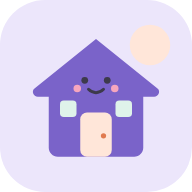
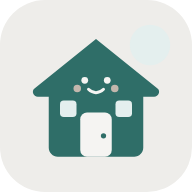
Ganti palet warna ke Monokrom Hangat
- theme.css ditulis ulang: abu-abu hangat netral + satu aksen teal;
  warna status (positif, negatif, peringatan, bahaya) tetap dibedakan
- Semua warna yang sebelumnya ditulis langsung di CSS kini lewat
  variabel tema (tombol, chip, badge, toast, kartu saldo, bar target,
  scanner, sync pill, dll)
- Petak/kartu seragam abu-abu; teal muda hanya untuk elemen aktif
  (tab, segmented, ikon terpilih, fokus input, tombol soft)
- Ikon aplikasi, theme-color, manifest, dan emoji ungu disesuaikan
- Versi v1.9

Claude-Session: https://claude.ai/code/session_016k4QMM5LHWqMStu4b4uAXy

Changed region(s): [[0.1562, 0.1875, 0.8438, 0.8438], [0.6562, 0.125, 0.9062, 0.3438]]

diff --git a/style/components.css b/style/components.css
@@ -64,13 +64,13 @@
 .btn--block { width: 100%; }
 .btn--sm { min-height: 34px; padding: 0 12px; font-size: 13px; border-radius: 11px; }
 .btn--icon { padding: 0; width: 46px; flex: none; font-size: 18px; }
-.btn--primary { background: var(--lavender); color: #fff; box-shadow: 0 6px 16px rgba(122, 99, 201, 0.3); }
-.btn--peach { background: var(--peach); color: #fff; box-shadow: 0 6px 16px rgba(224, 122, 79, 0.3); }
-.btn--sky { background: var(--sky); color: #fff; box-shadow: 0 6px 16px rgba(58, 134, 194, 0.3); }
-.btn--soft { background: var(--lavender-bg); color: var(--lavender); }
+.btn--primary { background: var(--accent); color: #fff; box-shadow: 0 6px 16px var(--accent-shadow); }
+.btn--peach { background: var(--accent); color: #fff; box-shadow: 0 6px 16px var(--accent-shadow); }
+.btn--sky { background: var(--accent); color: #fff; box-shadow: 0 6px 16px var(--accent-shadow); }
+.btn--soft { background: var(--accent-soft); color: var(--accent); }
 .btn--ghost { background: var(--bg); color: var(--ink); }
 .btn--danger { background: var(--danger); color: #fff; }
-.btn--danger-soft { background: #fdeceb; color: var(--danger); }
+.btn--danger-soft { background: var(--danger-soft); color: var(--danger); }
 
 /* ---------- Kartu ---------- */
 .card {
@@ -116,7 +116,7 @@
   padding: 10px 14px;
   border: 2px solid var(--line);
   border-radius: 14px;
-  background: #fffdfb;
+  background: var(--surface-soft);
   font-size: 15px;
   transition: border-color 0.2s, box-shadow 0.2s;
   appearance: none;
@@ -132,7 +132,7 @@ select.input {
   background-repeat: no-repeat;
   padding-right: 34px;
 }
-.input:focus { outline: none; border-color: var(--lavender); box-shadow: 0 0 0 4px var(--lavender-bg); }
+.input:focus { outline: none; border-color: var(--lavender); box-shadow: 0 0 0 4px var(--accent-soft); }
 .input.center { text-align: center; }
 
 .money {
@@ -179,7 +179,7 @@ select.input {
   color: var(--muted);
   transition: all 0.15s;
 }
-.chip--on { background: var(--lavender); border-color: var(--lavender); color: #fff; }
+.chip--on { background: var(--accent); border-color: var(--accent); color: #fff; }
 
 .custom-range { display: flex; align-items: center; gap: 8px; margin-top: 8px; }
 .custom-range .input { min-height: 40px; padding: 6px 10px; font-size: 13.5px; }
@@ -194,7 +194,7 @@ select.input {
   box-shadow: var(--shadow);
 }
 .segmented button { padding: 10px; border-radius: 12px; font-weight: 800; font-size: 14px; color: var(--muted); }
-.segmented button.on { background: var(--lavender-bg); color: var(--lavender); }
+.segmented button.on { background: var(--accent-soft); color: var(--accent); }
 
 /* ---------- Badge ---------- */
 .badge {
@@ -207,16 +207,16 @@ select.input {
   font-weight: 800;
   white-space: nowrap;
 }
-.badge--ok { background: var(--mint-bg); color: var(--mint); }
-.badge--warn { background: var(--butter-bg); color: #a26a00; }
-.badge--danger { background: #fde2e1; color: var(--danger); }
-.badge--info { background: var(--sky-bg); color: var(--sky); }
+.badge--ok { background: var(--ok-soft); color: var(--ok); }
+.badge--warn { background: var(--warn-soft); color: var(--warn-ink); }
+.badge--danger { background: var(--danger-soft); color: var(--danger); }
+.badge--info { background: var(--tile); color: var(--accent-ink); }
 
 /* ---------- Progress bar ---------- */
 .bar { height: 10px; border-radius: 99px; background: var(--bg); overflow: hidden; }
 .bar span { display: block; height: 100%; border-radius: inherit; background: var(--t-ink, var(--lavender)); transition: width 0.5s ease; }
 .bar--light { background: rgba(255, 255, 255, 0.6); }
-.bar--ok span { background: var(--mint); }
+.bar--ok span { background: var(--ok); }
 .bar--warn span { background: var(--warn); }
 .bar--danger span { background: var(--danger); }
 
@@ -416,11 +416,11 @@ select.input {
 }
 .toast--show { opacity: 1; transform: translate(-50%, 0); }
 .toast[data-type='error'] { background: var(--danger); }
-.toast[data-type='warn'] { background: #c27d10; }
+.toast[data-type='warn'] { background: var(--warn); }
 
 /* ---------- Bottom sheet ---------- */
 .sheet { position: fixed; inset: 0; z-index: 50; }
-.sheet__backdrop { position: absolute; inset: 0; background: rgba(61, 58, 75, 0.4); opacity: 0; transition: opacity 0.25s; }
+.sheet__backdrop { position: absolute; inset: 0; background: var(--overlay); opacity: 0; transition: opacity 0.25s; }
 .sheet__panel {
   position: absolute;
   left: 50%;
@@ -449,7 +449,7 @@ select.input {
   aspect-ratio: 4 / 3;
   border-radius: 20px;
   overflow: hidden;
-  background: #2b2838;
+  background: var(--dark-1);
   display: grid;
   place-items: center;
 }
@@ -459,7 +459,7 @@ select.input {
   inset: 28% 10%; /* harus sama dengan FRAME_CROP di barcode.service.js */
   border: 3px solid rgba(255, 255, 255, 0.9);
   border-radius: 16px;
-  box-shadow: 0 0 0 999px rgba(43, 40, 56, 0.35);
+  box-shadow: 0 0 0 999px rgba(47, 58, 58, 0.35);
   pointer-events: none;
   z-index: 2;
 }
@@ -492,7 +492,7 @@ select.input {
   background: rgba(255, 255, 255, 0.85);
   font-size: 20px;
 }
-.scanner__torch.on { background: var(--butter); }
+.scanner__torch.on { background: var(--warn-soft); }
 .scanner__engine { margin: -4px 0 0; text-align: center; font-size: 11px; color: var(--muted); }
 
 /* ---------- Perayaan ---------- */

diff --git a/style/pages.css b/style/pages.css
@@ -82,12 +82,12 @@
 .balance-card {
   padding: 20px;
   border-radius: var(--radius-lg);
-  background: linear-gradient(135deg, #8b74d6 0%, #b49be8 60%, #f2b8c6 120%);
+  background: linear-gradient(135deg, var(--dark-1) 0%, var(--dark-2) 100%);
   color: #fff;
   display: flex;
   flex-direction: column;
   gap: 4px;
-  box-shadow: 0 12px 28px rgba(122, 99, 201, 0.3);
+  box-shadow: 0 12px 28px rgba(43, 43, 43, 0.18);
   position: relative;
   overflow: hidden;
 }
@@ -283,7 +283,7 @@ body.auth-page .app { padding-bottom: 32px; }
 .login h1 { font-size: 28px; font-weight: 900; }
 .login > p { margin-bottom: 10px; }
 .login .card { width: 100%; text-align: left; }
-.login__error { background: #fdeceb; color: var(--danger); padding: 10px 12px; border-radius: 12px; font-weight: 700; font-size: 13.5px; }
+.login__error { background: var(--danger-soft); color: var(--danger); padding: 10px 12px; border-radius: 12px; font-weight: 700; font-size: 13.5px; }
 .btn:disabled { opacity: 0.6; pointer-events: none; }
 
 .sync-pill {
@@ -297,8 +297,8 @@ body.auth-page .app { padding-bottom: 32px; }
   color: var(--mint);
 }
 .sync-pill--syncing, .sync-pill--idle { background: var(--sky-bg); color: var(--sky); }
-.sync-pill--offline { background: var(--butter-bg); color: #a26a00; }
-.sync-pill--error { background: #fde2e1; color: var(--danger); }
+.sync-pill--offline { background: var(--warn-soft); color: var(--warn-ink); }
+.sync-pill--error { background: var(--danger-soft); color: var(--danger); }
 
 .kv { display: flex; justify-content: space-between; gap: 12px; font-size: 14px; }
 .kv span { color: var(--muted); }
@@ -330,7 +330,7 @@ code { background: var(--bg); padding: 1px 6px; border-radius: 6px; font-size: 1
   background: var(--bg);
   border: 2px solid transparent;
 }
-.icon-pick__item.on { background: var(--lavender-bg); border-color: var(--lavender); }
+.icon-pick__item.on { background: var(--accent-soft); border-color: var(--accent); }
 a.setting-row { color: inherit; }
 
 /* ---------- Transfer ---------- */
@@ -347,7 +347,7 @@ a.setting-row { color: inherit; }
   color: #fff;
   font-size: 20px;
   font-weight: 900;
-  box-shadow: 0 4px 12px rgba(58, 134, 194, 0.35);
+  box-shadow: 0 4px 12px var(--accent-shadow);
   transition: transform 0.25s;
 }
 .tf-swap:active { transform: rotate(180deg); }
@@ -379,20 +379,20 @@ a.setting-row { color: inherit; }
 }
 .goal__pct { font-size: 22px; font-weight: 900; }
 .goal__pct--goal { color: var(--rose); }
-.goal__pct--ok { color: var(--mint); }
+.goal__pct--ok { color: var(--ok); }
 .goal__pct--warn { color: var(--warn); }
 .goal-bar { position: relative; height: 14px; border-radius: 99px; background: var(--rose-bg); overflow: hidden; }
-.goal-bar span { display: block; height: 100%; border-radius: inherit; background: linear-gradient(90deg, #f29bb6, var(--rose)); transition: width 0.6s ease; }
+.goal-bar span { display: block; height: 100%; border-radius: inherit; background: var(--accent); transition: width 0.6s ease; }
 .goal-bar i { position: absolute; top: 3px; bottom: 3px; width: 2px; background: rgba(255, 255, 255, 0.8); }
-.goal-bar--ok { background: var(--mint-bg); }
-.goal-bar--ok span { background: linear-gradient(90deg, #8fd6b8, var(--mint)); }
-.goal-bar--warn span { background: linear-gradient(90deg, #f3c26b, var(--warn)); }
+.goal-bar--ok { background: var(--ok-soft); }
+.goal-bar--ok span { background: var(--ok); }
+.goal-bar--warn span { background: var(--warn); }
 .goal-bar--thin { height: 8px; }
 .goal-line { font-size: 13px; margin: 0; }
-.goal-line--ok { color: var(--mint); font-weight: 800; }
+.goal-line--ok { color: var(--ok); font-weight: 800; }
 .goal-accs { display: flex; flex-wrap: wrap; gap: 6px; }
 .goal-acc { padding: 4px 10px; border-radius: 99px; background: var(--bg); font-size: 12px; font-weight: 700; }
-.goal-acc--shared { background: var(--butter-bg); }
+.goal-acc--shared { background: var(--warn-soft); }
 .goal__add { align-self: flex-start; }
 .goal-mini { gap: 10px; }
 .goal-mini__row { display: flex; flex-direction: column; gap: 5px; }
@@ -401,8 +401,8 @@ a.setting-row { color: inherit; }
   text-align: left;
   padding: 10px 14px;
   border-radius: 14px;
-  background: var(--butter-bg);
-  border: 2px dashed var(--butter);
+  background: var(--warn-soft);
+  border: 2px dashed var(--warn);
   font-size: 13.5px;
 }
 .tip-btn small { color: var(--muted); }
@@ -425,5 +425,5 @@ a.setting-row { color: inherit; }
 .acc-check__row:has(input:checked) .acc-check__box::after { content: '✓'; color: #fff; font-weight: 900; font-size: 13px; }
 .acc-check__row:has(input:focus-visible) { outline: 3px solid var(--lavender); }
 .acc-check__icon { font-size: 18px; }
-.acc-check__warn { display: block; color: #a26a00; font-size: 11px; }
+.acc-check__warn { display: block; color: var(--warn-ink); font-size: 11px; }
 .menu-grid > .menu-tile:last-child:nth-child(odd) { grid-column: span 2; min-height: 100px; }

diff --git a/style/theme.css b/style/theme.css
@@ -1,34 +1,54 @@
 /* ============================================================
-   THEME — warna, font, radius, bayangan.
-   Ubah di sini untuk mengganti tampilan seluruh aplikasi.
+   THEME — Monokrom Hangat
+   Abu-abu hangat netral + satu warna aksen (teal).
+   Semua warna aplikasi diatur di file ini.
    ============================================================ */
 :root {
   /* Dasar */
-  --bg: #fbf7f2;          /* krem hangat */
+  --bg: #f5f4f2;          /* abu-abu hangat sangat muda */
   --surface: #ffffff;
-  --ink: #3d3a4b;         /* teks utama, ungu tua lembut */
-  --muted: #8b8799;
-  --line: #efe8df;
+  --surface-soft: #fbfaf8; /* isian input */
+  --ink: #2b2b2b;         /* teks utama */
+  --muted: #8c8986;
+  --line: #e6e3df;
+  --tile: #eeedea;        /* latar petak / kartu berwarna */
 
-  /* Palet pastel (bg) + aksen kuat (ink) per tone */
-  --mint-bg: #dff3ea;     --mint: #3e9c78;
-  --peach-bg: #ffe6d9;    --peach: #e07a4f;
-  --sky-bg: #ddeefb;      --sky: #3a86c2;
-  --lavender-bg: #ece6fb; --lavender: #7a63c9;
-  --butter-bg: #fff2c7;   --butter: #b8860b;
-  --rose-bg: #fce4ec;     --rose: #d0587e;
+  /* Aksen utama (teal) */
+  --accent: #2f6e68;
+  --accent-ink: #3e7c76;
+  --accent-soft: #e4efee;
+  --accent-shadow: rgba(47, 110, 104, 0.25);
 
-  /* Status */
-  --ok: var(--mint);
-  --warn: #d98b1c;
-  --danger: #d9534f;
+  /* Kartu gelap (saldo) */
+  --dark-1: #2f3a3a;
+  --dark-2: #4c5e5c;
+
+  /* Status — tetap dibedakan agar angka penting mudah terbaca */
+  --ok: #3e7c76;
+  --ok-soft: #e4efee;
+  --warn: #b7791f;
+  --warn-ink: #8a5a12;
+  --warn-soft: #f6ecd9;
+  --danger: #b4533f;
+  --danger-soft: #f6e4df;
+  --pos: #2f6e68;         /* angka pemasukan / sisa */
+  --neg: #b4533f;         /* angka pengeluaran / minus / hutang */
+
+  /* Nama tone lama dipetakan ke palet monokrom (dipakai oleh .tone-*) */
+  --mint-bg: var(--tile);     --mint: var(--accent-ink);
+  --peach-bg: var(--tile);    --peach: var(--accent-ink);
+  --sky-bg: var(--tile);      --sky: var(--accent-ink);
+  --lavender-bg: var(--tile);  --lavender: var(--accent);
+  --butter-bg: var(--tile);   --butter: var(--accent-ink);
+  --rose-bg: var(--tile);     --rose: var(--accent-ink);
 
   /* Bentuk */
   --radius-lg: 24px;
   --radius: 18px;
   --radius-sm: 12px;
-  --shadow: 0 6px 20px rgba(61, 58, 75, 0.07);
-  --shadow-pop: 0 10px 30px rgba(61, 58, 75, 0.16);
+  --shadow: 0 6px 20px rgba(43, 43, 43, 0.06);
+  --shadow-pop: 0 10px 30px rgba(43, 43, 43, 0.16);
+  --overlay: rgba(43, 43, 43, 0.4);
 
   --font: 'Nunito', system-ui, -apple-system, 'Segoe UI', Roboto, sans-serif;
   --tabbar-h: 68px;
@@ -43,7 +63,8 @@
 .tone-butter   { --t-bg: var(--butter-bg);   --t-ink: var(--butter); }
 .tone-rose     { --t-bg: var(--rose-bg);     --t-ink: var(--rose); }
 
-.text-mint { color: var(--mint); }
-.text-peach { color: var(--peach); }
-.text-rose { color: var(--rose); }
-.text-sky { color: var(--sky); }
+/* Warna teks angka: positif (pemasukan, sisa) vs negatif (pengeluaran, minus, hutang) */
+.text-mint { color: var(--pos); }
+.text-sky { color: var(--pos); }
+.text-peach { color: var(--neg); }
+.text-rose { color: var(--neg); }

diff --git a/style/layout.css b/style/layout.css
@@ -39,7 +39,7 @@
   -webkit-backdrop-filter: blur(12px);
   border-top: 1px solid var(--line);
   border-radius: 22px 22px 0 0;
-  box-shadow: 0 -6px 24px rgba(61, 58, 75, 0.06);
+  box-shadow: 0 -6px 24px rgba(43, 43, 43, 0.06);
   z-index: 20;
 }
 .tabbar a {
@@ -55,7 +55,7 @@
   transition: background 0.2s, color 0.2s;
 }
 .tabbar a span { font-size: 20px; line-height: 1; transition: transform 0.2s; }
-.tabbar a.on { color: var(--lavender); background: var(--lavender-bg); }
+.tabbar a.on { color: var(--accent); background: var(--accent-soft); }
 .tabbar a.on span { transform: translateY(-2px) scale(1.1); }
 
 /* Bar aksi menempel di atas tab bar (stock opname) */

diff --git a/program/settings.js b/program/settings.js
@@ -67,7 +67,7 @@ export default {
         <h2>📱 Pasang di HP</h2>
         <p class="small muted">Android (Chrome): menu ⋮ → <b>Tambahkan ke layar utama</b>.<br/>iPhone (Safari): tombol Bagikan → <b>Add to Home Screen</b>.</p>
       </section>
-      <p class="muted small center">Rumahku ${APP_VERSION} · dibuat dengan 💜</p>`;
+      <p class="muted small center">Rumahku ${APP_VERSION} · dibuat dengan 🤍</p>`;
 
     const dbBox = el.querySelector('[data-db]');
     const bindDb = () => {

diff --git a/index.html b/index.html
@@ -3,7 +3,7 @@
   <head>
     <meta charset="utf-8" />
     <meta name="viewport" content="width=device-width, initial-scale=1, viewport-fit=cover" />
-    <meta name="theme-color" content="#FBF7F2" />
+    <meta name="theme-color" content="#F5F4F2" />
     <meta name="color-scheme" content="light" />
     <meta name="description" content="Rumahku — inventory barang & keuangan keluarga dalam satu aplikasi." />
     <meta name="apple-mobile-web-app-capable" content="yes" />

diff --git a/program/finance/finance-menu.js b/program/finance/finance-menu.js
@@ -27,7 +27,7 @@ export default {
     const pct = b.totalBudget ? Math.min(Math.round((b.totalSpent / b.totalBudget) * 100), 100) : 0;
 
     el.innerHTML = `
-      ${pageHeader({ title: 'Keuangan Rumah', subtitle: monthLabel(month), emoji: '💜', tone: 'lavender' })}
+      ${pageHeader({ title: 'Keuangan Rumah', subtitle: monthLabel(month), emoji: '💰', tone: 'lavender' })}
 
       <section class="balance-card">
         <span>Saldo kas, bank & e-wallet</span>

diff --git a/service/ui.service.js b/service/ui.service.js
@@ -212,7 +212,7 @@ export function celebrate(message) {
   const layer = document.createElement('div');
   layer.className = 'celebrate';
   layer.setAttribute('role', 'status');
-  const bits = ['🎉', '✨', '💜', '🪙', '🎊', '⭐'];
+  const bits = ['🎉', '✨', '🤍', '🪙', '🎊', '⭐'];
   layer.innerHTML =
     `<div class="celebrate__msg">${esc(message)}</div>` +
     Array.from({ length: 28 }, (_, i) => {

diff --git a/sw.js b/sw.js
@@ -2,7 +2,7 @@
  * Service Worker — supaya aplikasi bisa dibuka tanpa internet.
  * Naikkan VERSION setiap kali ada perubahan file agar cache diperbarui.
  */
-const VERSION = 'rumahku-v10';
+const VERSION = 'rumahku-v11';
 const CORE = [
   './',
   './index.html',

diff --git a/service/version.service.js b/service/version.service.js
@@ -2,4 +2,4 @@
  * Versi aplikasi — tampil di menu Atur & layar scan.
  * Naikkan bersama VERSION di sw.js setiap ada perubahan.
  */
-export const APP_VERSION = 'v1.8';
+export const APP_VERSION = 'v1.9';
